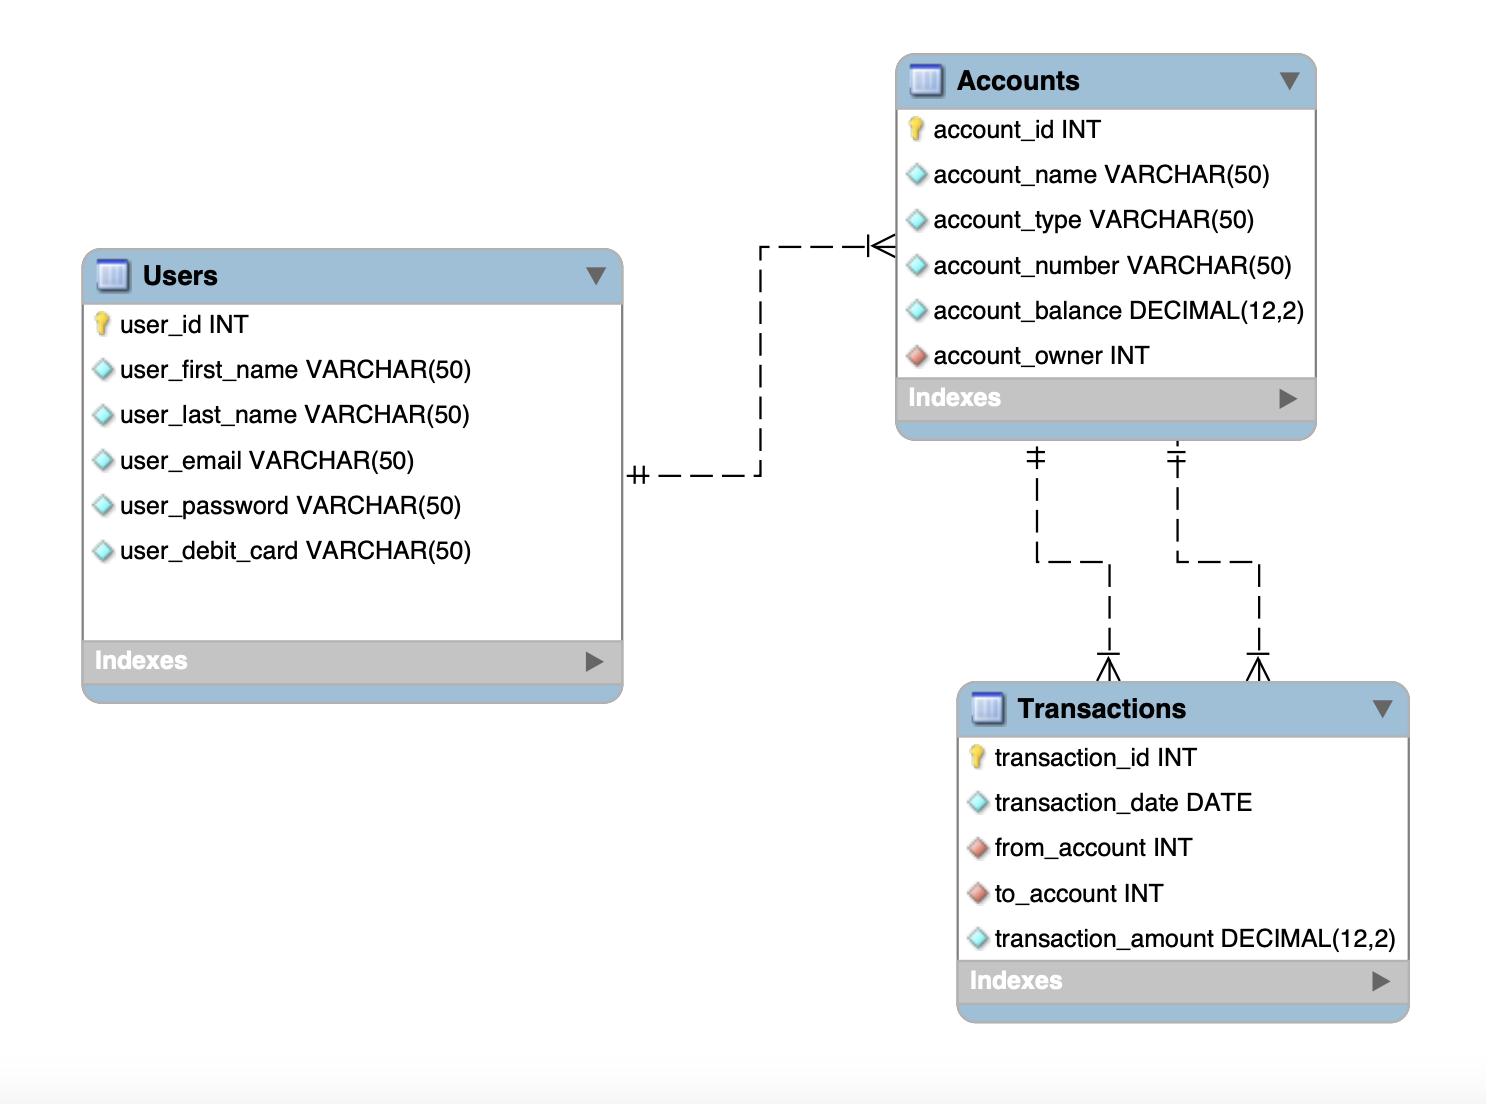
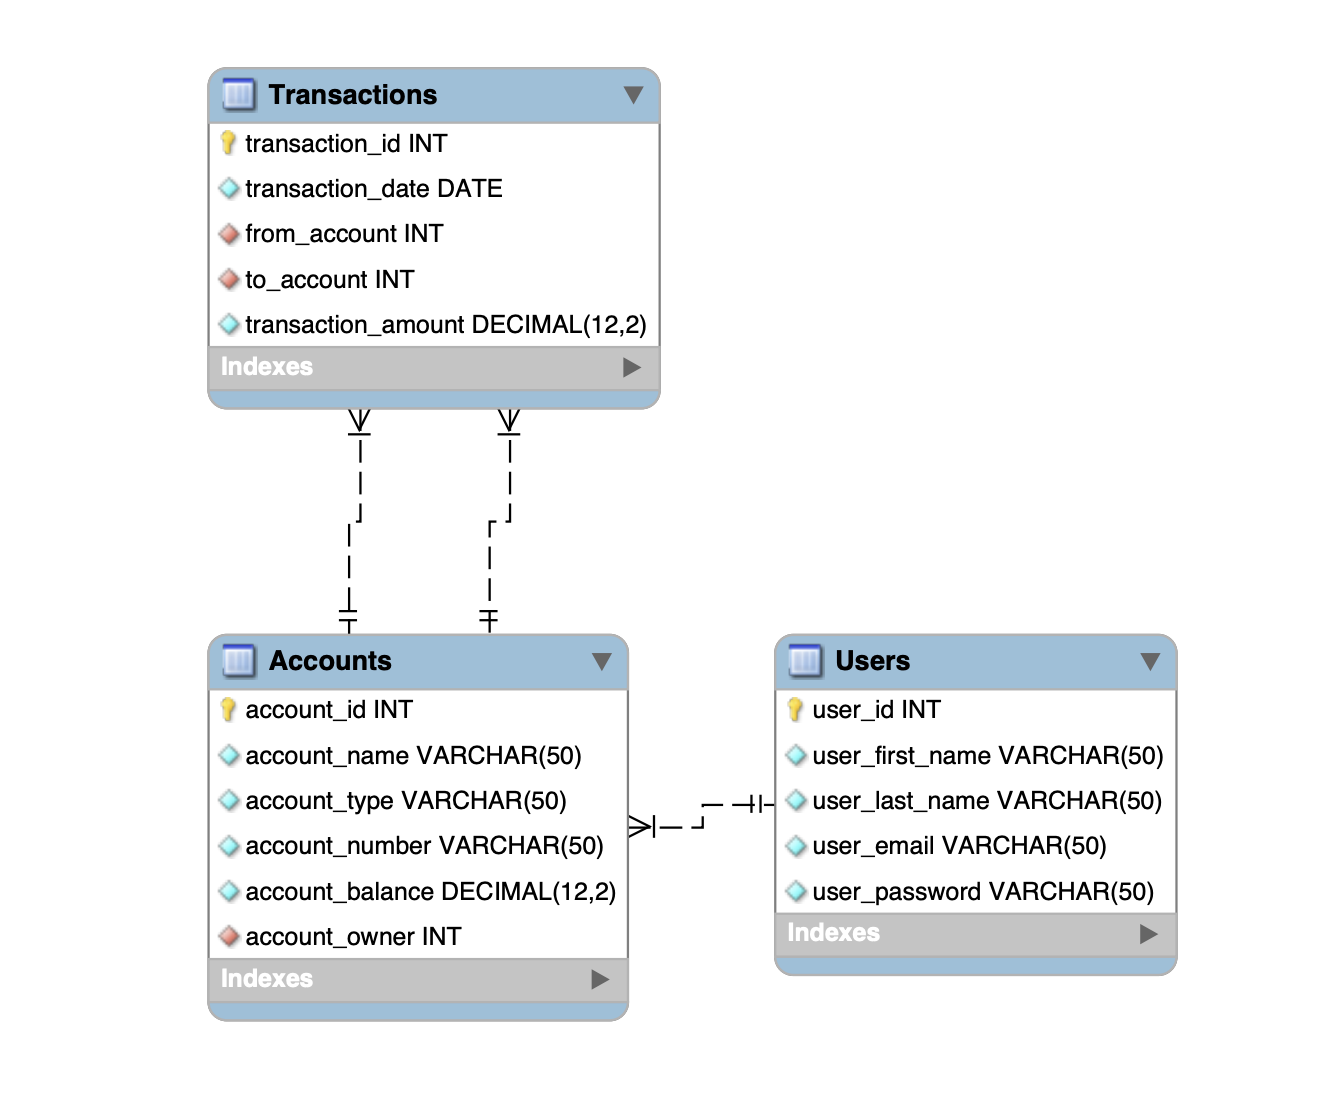
modify users table in the database

diff --git a/bank-app/src/main/resources/templates/index.html b/bank-app/src/main/resources/templates/index.html
@@ -42,8 +42,11 @@
             <span>Welcome back, </span><span th:text="${user.firstName} + '!'">User Name</span>
         </div>
         <div>
-            <h4 th:if="${#lists.size(bankAccounts) != 0}">Bank Accounts</h4>
-            <div th:each="bankAccount : ${bankAccounts}" class="account-container">
+            <h4>Bank Accounts</h4>
+            <div th:if="${#lists.size(bankAccounts) == 0}" class="open-account-prompt">
+                <p>Please contact the bank to open a new bank account.</p>
+            </div>
+            <div th:if="${#lists.size(bankAccounts) != 0}" th:each="bankAccount : ${bankAccounts}" class="account-container">
                 <a th:href="@{/history(id=${bankAccount.id})}">
                     <span class="account-type">
                         <p th:text="${bankAccount.name} + ' ' + ${bankAccount.type}">Bank Account Name and Type</p>
@@ -55,8 +58,11 @@
             </div>
         </div>
         <div>
-            <h4 th:if="${#lists.size(creditCards) != 0}">Credit Cards</h4>
-            <div th:each="creditCard : ${creditCards}" class="account-container">
+            <h4>Credit Cards</h4>
+            <div th:if="${#lists.size(creditCards) == 0}" class="open-account-prompt">
+                <p>Please contact the bank to open a new credit card.</p>
+            </div>
+            <div th:if="${#lists.size(creditCards) != 0}" th:each="creditCard : ${creditCards}" class="account-container">
                 <a th:href="@{/history(id=${creditCard.id})}">
                     <span class="account-type">
                         <p th:text="${creditCard.name} + ' ' + ${creditCard.type}">Credit Card Name and Type</p>

diff --git a/bank-app/src/main/resources/static/css/index.css b/bank-app/src/main/resources/static/css/index.css
@@ -39,3 +39,13 @@
 .account-sum {
     text-align: right;
 }
+.open-account-prompt {
+    padding: 40px 20px;
+    border: 1px solid #0179C0;
+    color: #0179C0;
+}
+.open-account-prompt p {
+    margin: 0;
+    text-align: center;
+    font-weight: 500;
+}

diff --git a/bank-app/src/test/java/com/app/bank/dao/UserDaoDBTest.java b/bank-app/src/test/java/com/app/bank/dao/UserDaoDBTest.java
@@ -30,7 +30,6 @@ public class UserDaoDBTest {
         user.setLastName("Einstein");
         user.setEmail("ae@gmail.com");
         user.setPassword("temp");
-        user.setDebitCard("111122223333");
 
         User fromAdd = userDao.addUser(user);
         User fromGet = userDao.getUserById(fromAdd.getId());
@@ -45,7 +44,6 @@ public class UserDaoDBTest {
         user1.setLastName("Einstein");
         user1.setEmail("ae@gmail.com");
         user1.setPassword("temp");
-        user1.setDebitCard("111122223333");
         userDao.addUser(user1);
 
         User user2 = new User();
@@ -53,7 +51,6 @@ public class UserDaoDBTest {
         user2.setLastName("Newton");
         user2.setEmail("in@gmail.com");
         user2.setPassword("temp");
-        user2.setDebitCard("222233334444");
         userDao.addUser(user2);
 
         List<User> users = userDao.getAllUsers();
@@ -69,7 +66,6 @@ public class UserDaoDBTest {
         user.setLastName("Einstein");
         user.setEmail("ae@gmail.com");
         user.setPassword("temp");
-        user.setDebitCard("111122223333");
         userDao.addUser(user);
 
         User initialUser = userDao.getUserById(user.getId());
@@ -78,7 +74,6 @@ public class UserDaoDBTest {
         user.setLastName("Newton");
         user.setEmail("in@gmail.com");
         user.setPassword("temp");
-        user.setDebitCard("222233334444");
         userDao.updateUser(user);
 
         User updatedUser = userDao.getUserById(user.getId());
@@ -88,12 +83,10 @@ public class UserDaoDBTest {
         assertEquals(initialUser.getLastName(), "Einstein");
         assertEquals(initialUser.getEmail(), "ae@gmail.com");
         assertEquals(initialUser.getPassword(), "temp");
-        assertEquals(initialUser.getDebitCard(), "111122223333");
         assertEquals(updatedUser.getFirstName(), "Isaac");
         assertEquals(updatedUser.getLastName(), "Newton");
         assertEquals(updatedUser.getEmail(), "in@gmail.com");
         assertEquals(updatedUser.getPassword(), "temp");
-        assertEquals(updatedUser.getDebitCard(), "222233334444");
     }
 
     @Test
@@ -103,7 +96,6 @@ public class UserDaoDBTest {
         user.setLastName("Einstein");
         user.setEmail("ae@gmail.com");
         user.setPassword("temp");
-        user.setDebitCard("111122223333");
         userDao.addUser(user);
 
         assertTrue(userDao.getUserById(user.getId()) != null);

diff --git a/bank-app/src/test/java/com/app/bank/service/UserServiceLayerImplTest.java b/bank-app/src/test/java/com/app/bank/service/UserServiceLayerImplTest.java
@@ -73,33 +73,8 @@ public class UserServiceLayerImplTest {
         exception = assertThrows(UserException.class, () -> userServiceLayer.validateUserProperties(user));
         assertTrue(exception.getMessage().equals("User's password cannot be empty."));
 
-        // test 9: user debit card number is null
+        // test 9: user properties validated
         user.setPassword("temp");
-        exception = assertThrows(UserException.class, () -> userServiceLayer.validateUserProperties(user));
-        assertTrue(exception.getMessage().equals("User's debit card number cannot be empty."));
-
-        // test 10: user debit card number is blank
-        user.setDebitCard("");
-        exception = assertThrows(UserException.class, () -> userServiceLayer.validateUserProperties(user));
-        assertTrue(exception.getMessage().equals("User's debit card number cannot be empty."));
-
-        // test 11: user debit card number does not only contain numerical values
-        user.setDebitCard("A11122223333");
-        exception = assertThrows(UserException.class, () -> userServiceLayer.validateUserProperties(user));
-        assertTrue(exception.getMessage().equals("Debit card number must only contain numerical values."));
-
-        // test 12: user debit card number is negative
-        user.setDebitCard("-11122223333");
-        exception = assertThrows(UserException.class, () -> userServiceLayer.validateUserProperties(user));
-        assertTrue(exception.getMessage().equals("Debit card number must only contain numerical values."));
-
-        // test 13: user debit card number does not consist of 12 digits
-        user.setDebitCard("11112222333");
-        exception = assertThrows(UserException.class, () -> userServiceLayer.validateUserProperties(user));
-        assertTrue(exception.getMessage().equals("Debit card number must consist of 12 digits."));
-
-        // test 14: user properties validated
-        user.setDebitCard("111122223333");
         assertDoesNotThrow(() -> userServiceLayer.validateUserProperties(user));
         try {
             userServiceLayer.addUser(user);
@@ -117,7 +92,6 @@ public class UserServiceLayerImplTest {
         user.setLastName("Einstein");
         user.setEmail("ae@gmail.com");
         user.setPassword("temp");
-        user.setDebitCard("111122223333");
         try {
             user = userServiceLayer.addUser(user);
         }

diff --git a/bank-app/src/test/java/com/app/bank/dao/AccountDaoDBTest.java b/bank-app/src/test/java/com/app/bank/dao/AccountDaoDBTest.java
@@ -38,7 +38,6 @@ public class AccountDaoDBTest {
         user.setLastName("Einstein");
         user.setEmail("ae@gmail.com");
         user.setPassword("temp");
-        user.setDebitCard("111122223333");
         userDao.addUser(user);
 
         Account account = new Account();
@@ -61,7 +60,6 @@ public class AccountDaoDBTest {
         user1.setLastName("Einstein");
         user1.setEmail("ae@gmail.com");
         user1.setPassword("temp");
-        user1.setDebitCard("111122223333");
         userDao.addUser(user1);
 
         Account account1 = new Account();
@@ -85,7 +83,6 @@ public class AccountDaoDBTest {
         user2.setLastName("Newton");
         user2.setEmail("in@gmail.com");
         user2.setPassword("temp");
-        user2.setDebitCard("222233334444");
         userDao.addUser(user2);
 
         Account account3 = new Account();
@@ -126,7 +123,6 @@ public class AccountDaoDBTest {
         user1.setLastName("Einstein");
         user1.setEmail("ae@gmail.com");
         user1.setPassword("temp");
-        user1.setDebitCard("111122223333");
         userDao.addUser(user1);
 
         Account account1 = new Account();
@@ -150,7 +146,6 @@ public class AccountDaoDBTest {
         user2.setLastName("Newton");
         user2.setEmail("in@gmail.com");
         user2.setPassword("temp");
-        user2.setDebitCard("222233334444");
         userDao.addUser(user2);
 
         Account account3 = new Account();
@@ -195,7 +190,6 @@ public class AccountDaoDBTest {
         user.setLastName("Einstein");
         user.setEmail("ae@gmail.com");
         user.setPassword("temp");
-        user.setDebitCard("111122223333");
         userDao.addUser(user);
 
         Account account = new Account();
@@ -235,7 +229,6 @@ public class AccountDaoDBTest {
         user.setLastName("Einstein");
         user.setEmail("ae@gmail.com");
         user.setPassword("temp");
-        user.setDebitCard("111122223333");
         userDao.addUser(user);
 
         Account account = new Account();

diff --git a/bank-app/src/main/java/com/app/bank/dao/UserDaoDB.java b/bank-app/src/main/java/com/app/bank/dao/UserDaoDB.java
@@ -42,14 +42,13 @@ public class UserDaoDB implements UserDao {
     @Override
     @Transactional
     public User addUser(User user) {
-        final String ADD_USER = "INSERT INTO Users(user_first_name, user_last_name, user_email, user_password, user_debit_card) " +
-                "VALUES(?,?,?,?,?)";
+        final String ADD_USER = "INSERT INTO Users(user_first_name, user_last_name, user_email, user_password) " +
+                "VALUES(?,?,?,?)";
         jdbc.update(ADD_USER,
                 user.getFirstName(),
                 user.getLastName(),
                 user.getEmail(),
-                user.getPassword(),
-                user.getDebitCard());
+                user.getPassword());
 
         int newId = jdbc.queryForObject("SELECT LAST_INSERT_ID()", Integer.class);
         user.setId(newId);
@@ -59,14 +58,13 @@ public class UserDaoDB implements UserDao {
     @Override
     public void updateUser(User user) {
         final String UPDATE_USER = "UPDATE Users " +
-                "SET user_first_name = ?, user_last_name = ?, user_email = ?, user_password = ?, user_debit_card = ? " +
+                "SET user_first_name = ?, user_last_name = ?, user_email = ?, user_password = ? " +
                 "WHERE user_id = ?";
         jdbc.update(UPDATE_USER,
                 user.getFirstName(),
                 user.getLastName(),
                 user.getEmail(),
                 user.getPassword(),
-                user.getDebitCard(),
                 user.getId());
     }
 
@@ -87,7 +85,6 @@ public class UserDaoDB implements UserDao {
             user.setLastName(rs.getString("user_last_name"));
             user.setEmail(rs.getString("user_email"));
             user.setPassword(rs.getString("user_password"));
-            user.setDebitCard(rs.getString("user_debit_card"));
 
             return user;
         }

diff --git a/bank-app/src/test/java/com/app/bank/dao/TransactionDaoDBTest.java b/bank-app/src/test/java/com/app/bank/dao/TransactionDaoDBTest.java
@@ -46,7 +46,6 @@ public class TransactionDaoDBTest {
         user.setLastName("Einstein");
         user.setEmail("ae@gmail.com");
         user.setPassword("temp");
-        user.setDebitCard("111122223333");
         userDao.addUser(user);
 
         Account account1 = new Account();
@@ -84,7 +83,6 @@ public class TransactionDaoDBTest {
         user.setLastName("Einstein");
         user.setEmail("ae@gmail.com");
         user.setPassword("temp");
-        user.setDebitCard("111122223333");
         userDao.addUser(user);
 
         Account account1 = new Account();
@@ -133,7 +131,6 @@ public class TransactionDaoDBTest {
         user.setLastName("Einstein");
         user.setEmail("ae@gmail.com");
         user.setPassword("temp");
-        user.setDebitCard("111122223333");
         userDao.addUser(user);
 
         Account account1 = new Account();
@@ -204,7 +201,6 @@ public class TransactionDaoDBTest {
         user.setLastName("Einstein");
         user.setEmail("ae@gmail.com");
         user.setPassword("temp");
-        user.setDebitCard("111122223333");
         userDao.addUser(user);
 
         Account account1 = new Account();
@@ -258,7 +254,6 @@ public class TransactionDaoDBTest {
         user.setLastName("Einstein");
         user.setEmail("ae@gmail.com");
         user.setPassword("temp");
-        user.setDebitCard("111122223333");
         userDao.addUser(user);
 
         Account account1 = new Account();

diff --git a/bank-app/src/main/java/com/app/bank/dto/User.java b/bank-app/src/main/java/com/app/bank/dto/User.java
@@ -8,7 +8,6 @@ public class User {
     private String lastName;
     private String email;
     private String password;
-    private String debitCard;
 
     public int getId() {
         return id;
@@ -50,24 +49,16 @@ public class User {
         this.password = password;
     }
 
-    public String getDebitCard() {
-        return debitCard;
-    }
-
-    public void setDebitCard(String debitCard) {
-        this.debitCard = debitCard;
-    }
-
     @Override
     public boolean equals(Object o) {
         if (this == o) return true;
         if (o == null || getClass() != o.getClass()) return false;
         User user = (User) o;
-        return id == user.id && firstName.equals(user.firstName) && lastName.equals(user.lastName) && email.equals(user.email) && password.equals(user.password) && debitCard.equals(user.debitCard);
+        return id == user.id && firstName.equals(user.firstName) && lastName.equals(user.lastName) && email.equals(user.email) && password.equals(user.password);
     }
 
     @Override
     public int hashCode() {
-        return Objects.hash(id, firstName, lastName, email, password, debitCard);
+        return Objects.hash(id, firstName, lastName, email, password);
     }
 }

diff --git a/bank-app/src/main/java/com/app/bank/service/UserServiceLayerImpl.java b/bank-app/src/main/java/com/app/bank/service/UserServiceLayerImpl.java
@@ -56,21 +56,6 @@ public class UserServiceLayerImpl implements UserServiceLayer {
         if (user.getPassword() == null || user.getPassword().isBlank()) {
             throw new UserException("User's password cannot be empty.");
         }
-        if (user.getDebitCard() == null || user.getDebitCard().isBlank()) {
-            throw new UserException("User's debit card number cannot be empty.");
-        }
-        try {
-            Long debitCardNumberLong = Long.parseLong(user.getDebitCard());
-            if (debitCardNumberLong != Math.abs(debitCardNumberLong)) {
-                throw new NumberFormatException();
-            }
-        }
-        catch (NumberFormatException e) {
-            throw new UserException("Debit card number must only contain numerical values.");
-        }
-        if (user.getDebitCard().length() != 12) {
-            throw new UserException("Debit card number must consist of 12 digits.");
-        }
     }
 
     @Override

diff --git a/bank-app/src/main/java/com/app/bank/security/SecurityConfiguration.java b/bank-app/src/main/java/com/app/bank/security/SecurityConfiguration.java
@@ -1,0 +1,15 @@
+//package com.app.bank.security;
+//
+//import org.springframework.context.annotation.Bean;
+//import org.springframework.security.config.annotation.web.builders.HttpSecurity;
+//import org.springframework.security.config.annotation.web.configuration.EnableWebSecurity;
+//import org.springframework.security.web.SecurityFilterChain;
+//
+//@EnableWebSecurity
+//public class SecurityConfiguration {
+//    @Bean
+//    public SecurityFilterChain securityFilterChain(HttpSecurity http) throws Exception {
+//        http.authorizeRequests().anyRequest().authenticated().and().httpBasic();
+//        return http.build();
+//    }
+//}

diff --git a/bank-app/src/test/java/com/app/bank/service/TransactionServiceLayerImplTest.java b/bank-app/src/test/java/com/app/bank/service/TransactionServiceLayerImplTest.java
@@ -60,7 +60,6 @@ public class TransactionServiceLayerImplTest {
         user.setLastName("Einstein");
         user.setEmail("ae@gmail.com");
         user.setPassword("temp");
-        user.setDebitCard("111122223333");
         try {
             user = userServiceLayer.addUser(user);
         }
@@ -158,7 +157,6 @@ public class TransactionServiceLayerImplTest {
         user.setLastName("Einstein");
         user.setEmail("ae@gmail.com");
         user.setPassword("temp");
-        user.setDebitCard("111122223333");
         try {
             user = userServiceLayer.addUser(user);
         }

diff --git a/bank-app/src/test/java/com/app/bank/service/AccountServiceLayerImplTest.java b/bank-app/src/test/java/com/app/bank/service/AccountServiceLayerImplTest.java
@@ -51,7 +51,6 @@ public class AccountServiceLayerImplTest {
         user.setLastName("Einstein");
         user.setEmail("ae@gmail.com");
         user.setPassword("temp");
-        user.setDebitCard("111122223333");
         try {
             user = userServiceLayer.addUser(user);
         }
@@ -137,7 +136,6 @@ public class AccountServiceLayerImplTest {
         user.setLastName("Einstein");
         user.setEmail("ae@gmail.com");
         user.setPassword("temp");
-        user.setDebitCard("111122223333");
         try {
             user = userServiceLayer.addUser(user);
         }
